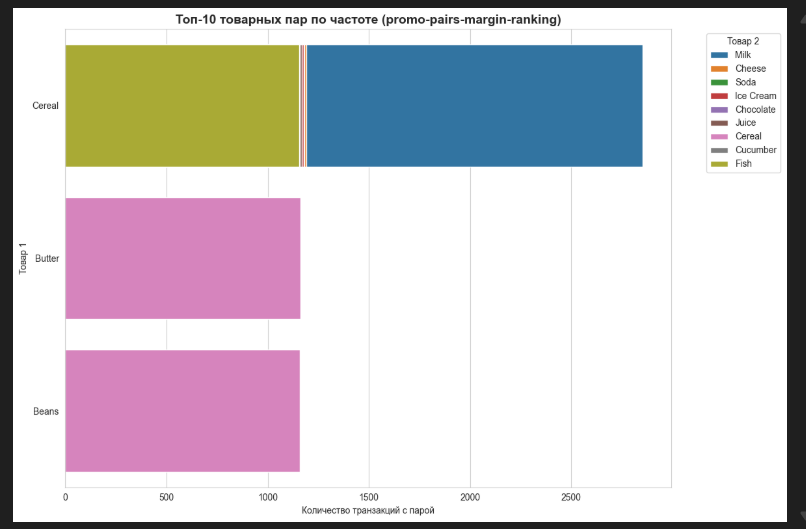
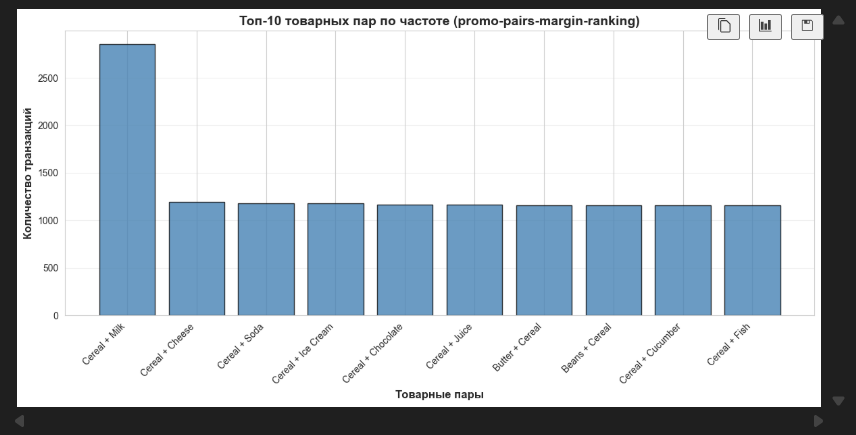
Update: vertical bar chart

diff --git a/README.md b/README.md
@@ -87,7 +87,7 @@ Timestamp — дата и время покупки.
 В ноутбуке построены:
 
 ![promo-pairs-margin-ranking](.screenshots/promo-pairs-margin-ranking.jpg)
-горизонтальный bar‑chart для топ‑10 пар (ось X — количество транзакций, ось Y — товар 1, цвет — товар 2);
+пара `Cereal + Milk` доминирует — встречается в ~2 800 транзакциях, что в ~2.5 раза чаще, чем остальные топ-пары (~1 100 транзакций каждая);
 
 ![promo-pairs-margin-ranking](.screenshots/basket_size.jpg)
 гистограмма распределения размера корзины (3–10 позиций как основной диапазон).
